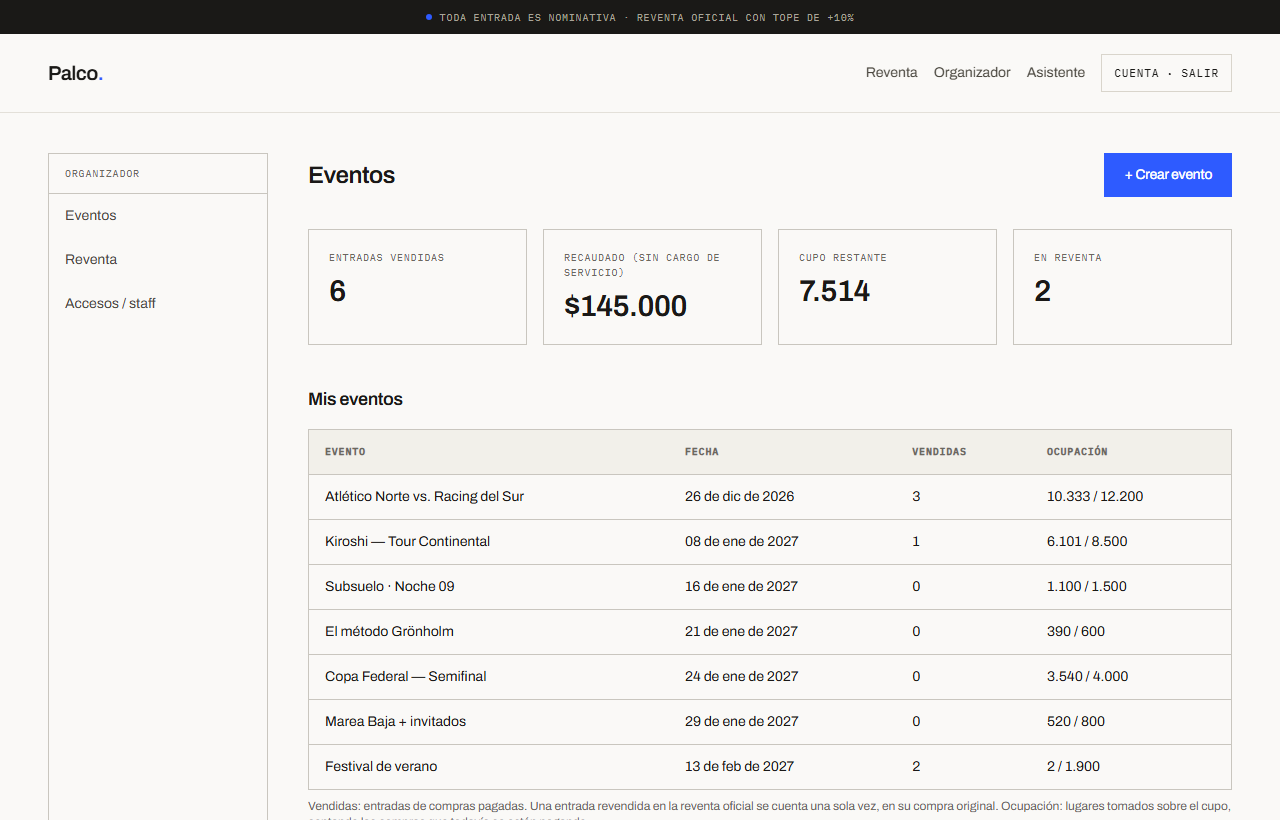
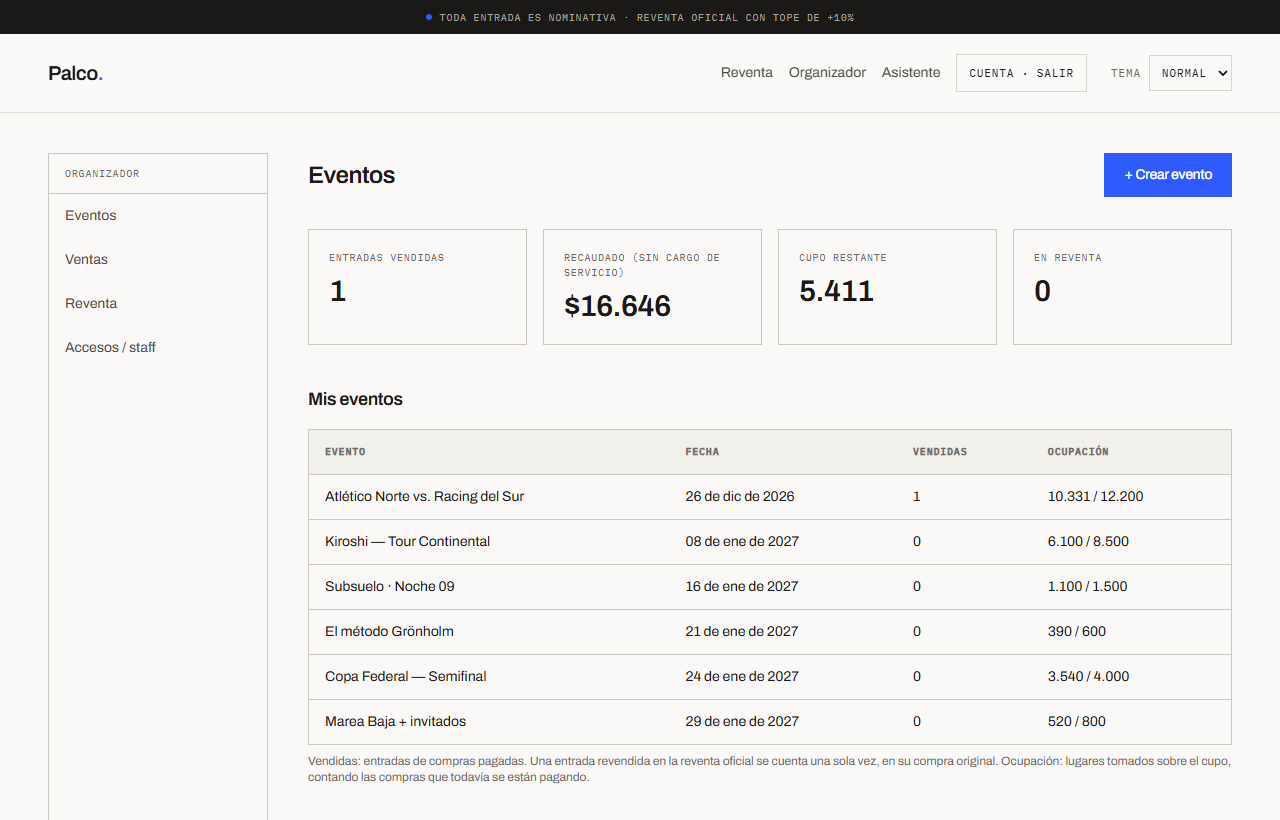
docs: capturas del manual con ventas y liquidación y recuperar la contraseña

diff --git a/docs/manual/manual-de-usuario.md b/docs/manual/manual-de-usuario.md
@@ -166,6 +166,8 @@ email**, que lleva al segundo paso.
 
 ### Recuperar la contraseña
 
+![Recuperar la contraseña](img/16-recuperar.png)
+
 Quien olvidó la contraseña toca **¿Olvidaste tu contraseña?**, debajo del botón **Ingresar**. Son dos
 pasos:
 
@@ -401,6 +403,8 @@ puede comprar. Las publicaciones de ese evento en la reventa se retiran.
 ![Cancelar evento](img/14-cancelar-evento.png)
 
 ### Ventas y liquidación
+
+![Ventas y liquidación](img/17-ventas-y-liquidacion.png)
 
 En **Detalle por evento** se elige el evento, y en **Ventas y liquidación** se ven tres cifras:
 
